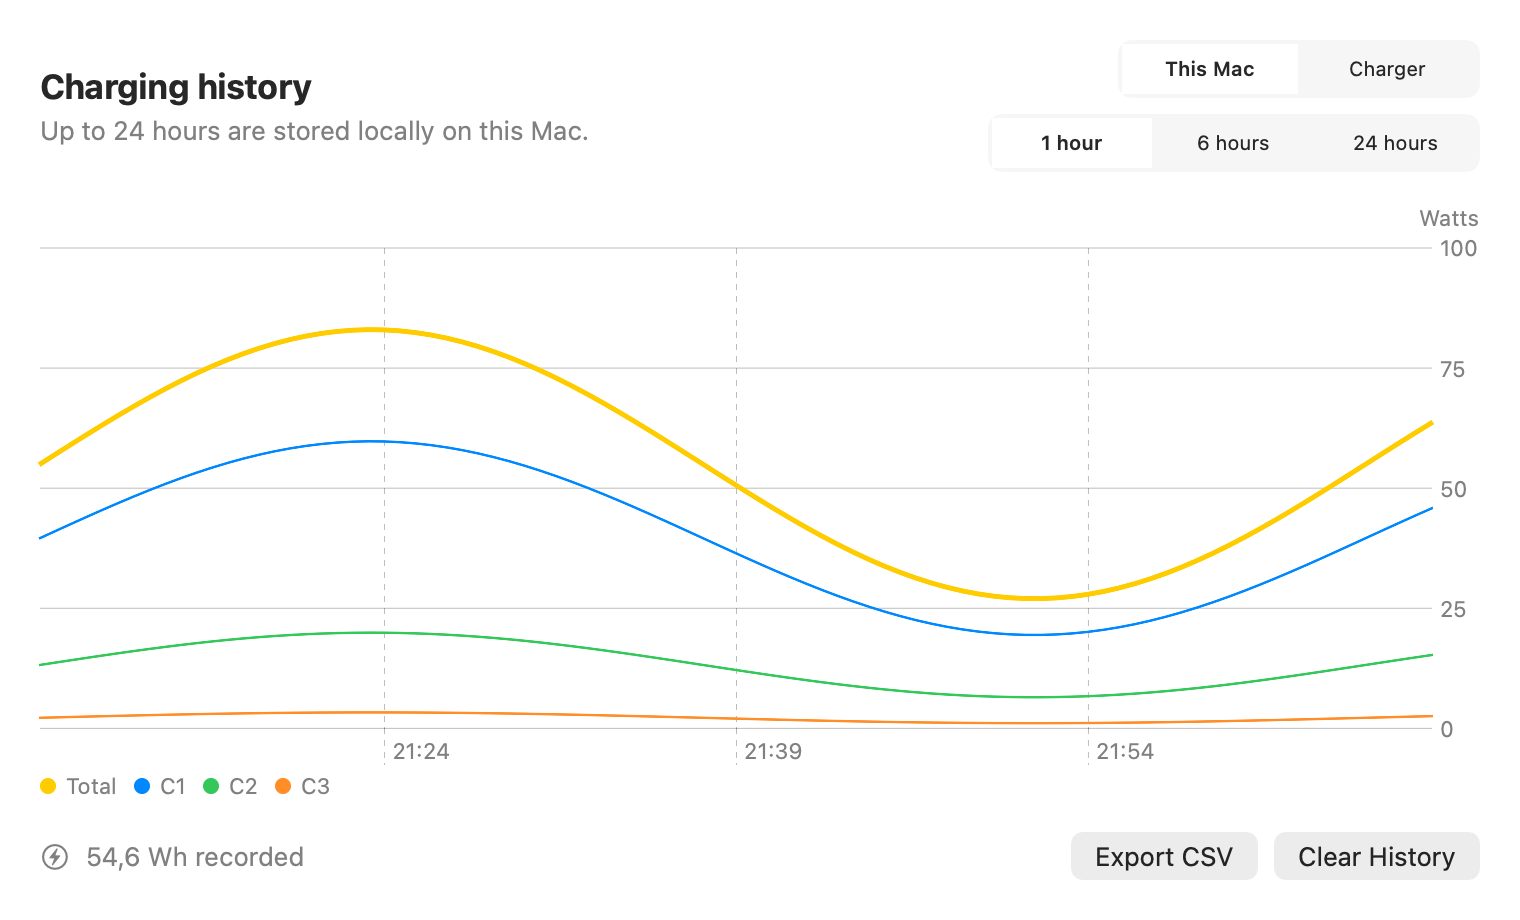
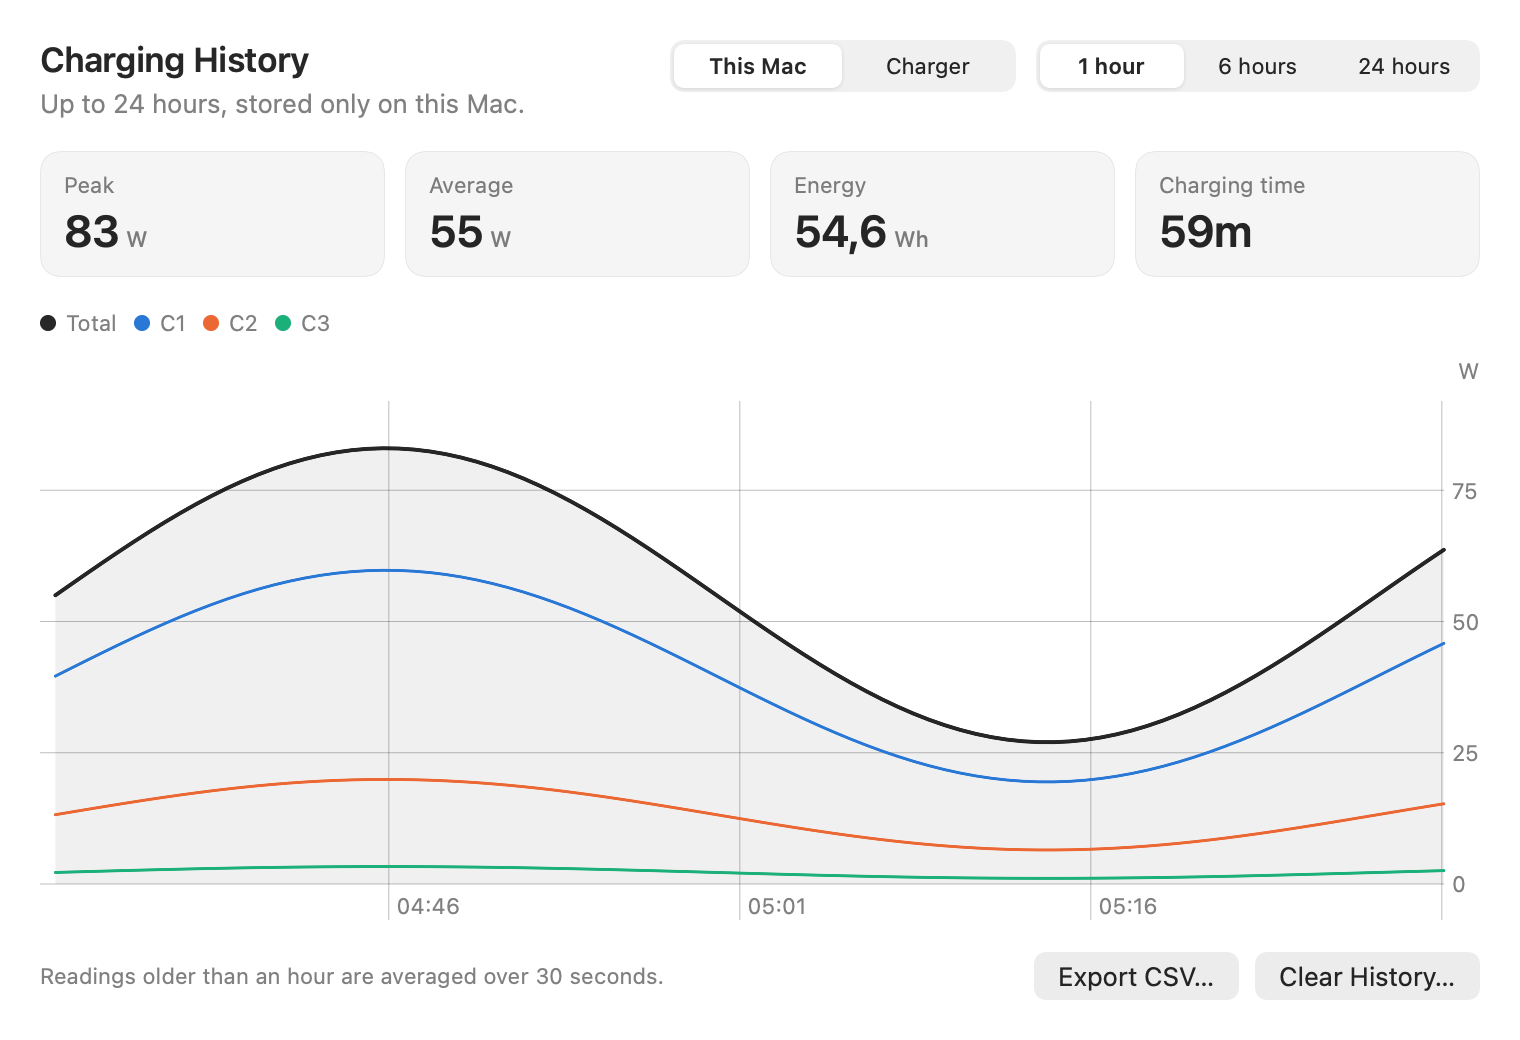
Refresh README, landing page, and screenshots for the redesign.
Screenshots come in light and dark; the README follows the reader's GitHub theme and the dark landing page uses the dark set with the app's port colors.

diff --git a/docs/index.html b/docs/index.html
@@ -4,7 +4,7 @@
   <meta charset="utf-8">
   <meta name="viewport" content="width=device-width, initial-scale=1">
   <title>Anker Power — Your Anker Prime 160W, in the Mac menu bar</title>
-  <meta name="description" content="Unofficial native macOS menu-bar monitor for the Anker Prime Charger 160W (A2687). Live local BLE power, per-port control, and charger settings — no cloud, no Anker account.">
+  <meta name="description" content="Unofficial native macOS menu-bar monitor for the Anker Prime Charger 160W (A2687). Live local BLE power, per-port control, 24-hour history, and charger settings — no cloud, no Anker account.">
   <link rel="icon" href="assets/favicon.png" type="image/png">
   <link rel="apple-touch-icon" href="assets/icon.png">
   <meta name="theme-color" content="#0b0d12">
@@ -57,6 +57,11 @@
             <span class="watt-value" data-count="28">0</span><span class="watt-unit">W</span>
           </p>
           <p class="watt-caption">Total output</p>
+          <div class="share-bar" role="img" aria-label="28 of 160 watts in use, all on C1">
+            <span class="c1" style="--share: 28"></span>
+            <span class="rest" style="--share: 132"></span>
+          </div>
+          <p class="watt-caption share-caption">of 160 W</p>
         </div>
         <div class="port-chips">
           <div class="port-chip">
@@ -79,8 +84,8 @@
           <img src="screenshots/menubar.png" alt="macOS menu bar with Anker Power showing live watts">
         </figure>
         <figure class="window window-hero window-bare">
-          <button type="button" class="shot-btn" data-lightbox="screenshots/menu.png" data-caption="Menu bar popover">
-            <img src="screenshots/menu.png" alt="Menu bar popover showing 28 W total output, C1 at 28 W, and live volts and amps">
+          <button type="button" class="shot-btn" data-lightbox="screenshots/menu-dark.png" data-caption="Menu bar popover">
+            <img src="screenshots/menu-dark.png" alt="Menu bar popover: connection status and firmware at the top, 84 W total output with a per-port bar against 160 W, and C1 to C3 with live watts, volts, and amps">
           </button>
         </figure>
       </div>
@@ -88,27 +93,27 @@
 
     <section class="proof" id="gallery" aria-label="App screenshots">
       <div class="proof-grid">
-        <button type="button" class="proof-card" data-reveal data-lightbox="screenshots/menu.png" data-caption="Live menu bar popover">
+        <button type="button" class="proof-card" data-reveal data-lightbox="screenshots/menu-dark.png" data-caption="Status, total output, and every port in one popover">
           <figure class="window window-bare">
-            <img src="screenshots/menu.png" alt="Menu bar popover">
+            <img src="screenshots/menu-dark.png" alt="Menu bar popover">
           </figure>
           <span>Live watts</span>
         </button>
-        <button type="button" class="proof-card" data-reveal data-lightbox="screenshots/settings.png" data-caption="Display, custom split, Mac preferences, and Diagnostics">
+        <button type="button" class="proof-card" data-reveal data-lightbox="screenshots/settings-dark.png" data-caption="Display, custom split, screensaver, port names, and Mac preferences">
           <figure class="window window-bare">
-            <img src="screenshots/settings.png" alt="Settings dialog">
+            <img src="screenshots/settings-dark.png" alt="Settings window">
           </figure>
           <span>Modes &amp; display</span>
         </button>
-        <button type="button" class="proof-card" data-reveal data-lightbox="screenshots/history.png" data-caption="Charging history chart">
+        <button type="button" class="proof-card" data-reveal data-lightbox="screenshots/history-dark.png" data-caption="Charging history with peak, average, energy, and charging time">
           <figure class="window window-bare">
-            <img src="screenshots/history.png" alt="Charging history window">
+            <img src="screenshots/history-dark.png" alt="Charging history window">
           </figure>
           <span>24-hour history</span>
         </button>
-        <button type="button" class="proof-card" data-reveal data-lightbox="screenshots/diagnostics.png" data-caption="Connection diagnostics">
+        <button type="button" class="proof-card" data-reveal data-lightbox="screenshots/diagnostics-dark.png" data-caption="Connection diagnostics">
           <figure class="window window-bare">
-            <img src="screenshots/diagnostics.png" alt="Connection diagnostics window">
+            <img src="screenshots/diagnostics-dark.png" alt="Connection diagnostics window">
           </figure>
           <span>Local diagnostics</span>
         </button>
@@ -117,26 +122,30 @@
 
     <section class="feature split" id="features">
       <figure class="window window-bare" data-reveal>
-        <button type="button" class="shot-btn" data-lightbox="screenshots/menu.png" data-caption="Per-port live power">
-          <img src="screenshots/menu.png" alt="Per-port power, cable rating, Apple PD Fast Charging, and connected device">
+        <button type="button" class="shot-btn" data-lightbox="screenshots/menu-dark.png" data-caption="Per-port live power">
+          <img src="screenshots/menu-dark.png" alt="Per-port power, charging protocol, connected device, and cable rating">
         </button>
       </figure>
       <div class="feature-copy" data-reveal>
         <p class="eyebrow">Live monitoring</p>
         <h2>Every port, at a glance.</h2>
-        <p>Click the bolt in the menu bar. Total watts stay in the status item while you work. The popover lists C1–C3 with live watts, volts, and amps.</p>
+        <p>Total watts stay in the menu bar while you work. Click the bolt and the popover leads with the charger&rsquo;s status, then total output against the 160 W limit — split by port — and C1–C3 with live watts, volts, and amps.</p>
         <ul class="feature-list">
+          <li>
+            <strong>Status up top</strong>
+            Connected, searching, or paused, with firmware, Pause, and Reconnect right beside it. When Bluetooth is off or access is missing, the popover says so and opens the right System Settings pane.
+          </li>
           <li>
             <strong>Cable &amp; profile</strong>
             E-Marker ratings, PD Fast Charging, and connected device names from a local USB VID/PID table.
           </li>
           <li>
-            <strong>Port nicknames</strong>
-            Label C1 as MacBook, C2 as iPhone — stored only on this Mac.
+            <strong>Port names</strong>
+            Label C1 as MacBook, C2 as iPhone — saved as you type, stored only on this Mac.
           </li>
           <li>
             <strong>Shutdown timers</strong>
-            1h / 2h / 3h presets or a custom countdown, plus output on/off with a confirm step.
+            1h / 2h / 3h presets or a custom countdown, plus output on/off with a confirmation.
           </li>
         </ul>
       </div>
@@ -167,11 +176,11 @@
             <strong>20 W</strong>
           </div>
         </div>
-        <p class="split-note">Each port 0 or 15–140 W, 160 W total. Display brightness, timeout, language, rotation, screensaver slots, and Diagnostics live in Settings.</p>
+        <p class="split-note">Each port gets 0 W or 15–140 W, up to 160 W in total. Settings previews the split before you apply it, next to display brightness, timeout, language, rotation, and four screensaver slots.</p>
       </div>
       <figure class="window window-bare" data-reveal>
-        <button type="button" class="shot-btn" data-lightbox="screenshots/settings.png" data-caption="Display settings, custom watt split, and Diagnostics">
-          <img src="screenshots/settings.png" alt="Settings with brightness, timeout, language, custom watt split, port nicknames, and Diagnostics">
+        <button type="button" class="shot-btn" data-lightbox="screenshots/settings-dark.png" data-caption="Display settings, custom watt split, screensaver, and port names">
+          <img src="screenshots/settings-dark.png" alt="Settings with brightness, timeout, language, custom watt split, screensaver slots, port names, and Mac preferences">
         </button>
       </figure>
     </section>
@@ -180,16 +189,17 @@
       <div class="history-intro" data-reveal>
         <p class="eyebrow">Energy</p>
         <h2>See the last 24 hours on this Mac.</h2>
-        <p>Rolling local samples, an optional charger-side curve, a watt-hour estimate, and CSV export. Yellow total, blue C1, green C2, orange C3.</p>
+        <p>Readings stay on this Mac for 24 hours — full resolution for the last hour, 30-second averages before that. Peak, average, energy, and charging time sit above the chart; switch to the charger&rsquo;s own curve or export CSV. White total, blue C1, orange C2, green C3.</p>
         <ul class="callouts">
           <li>1 hour · 6 hours · 24 hours</li>
+          <li>Peak · average · energy · charging time</li>
           <li>This Mac or charger curve</li>
           <li>Export CSV · stays local</li>
         </ul>
       </div>
       <figure class="window window-wide window-bare" data-reveal>
-        <button type="button" class="shot-btn" data-lightbox="screenshots/history.png" data-caption="Charging history">
-          <img src="screenshots/history.png" alt="Charging history chart with total, C1, C2, and C3 series over six hours">
+        <button type="button" class="shot-btn" data-lightbox="screenshots/history-dark.png" data-caption="Charging history">
+          <img src="screenshots/history-dark.png" alt="Charging history with peak, average, energy, and charging-time tiles above a chart of total, C1, C2, and C3 over the last hour">
         </button>
       </figure>
     </section>
@@ -199,7 +209,7 @@
         <article class="glass-card" data-reveal>
           <p class="eyebrow">Privacy</p>
           <h2>Stays on this Mac.</h2>
-          <p>All charger telemetry and history stay on-device. Up to 24 hours of samples and last-known charger identity live in Application Support. Port nicknames live in UserDefaults. The app makes no network requests.</p>
+          <p>All charger telemetry and history stay on-device. Up to 24 hours of readings and the last-known charger identity live in Application Support. Port names live in UserDefaults. The app makes no network requests.</p>
           <ul class="feature-list">
             <li><strong>No Anker account</strong> and no cloud protocol management.</li>
             <li><strong>Diagnostics Copy All</strong> omits serials, session keys, and decrypted payloads.</li>
@@ -217,8 +227,8 @@
         </article>
       </div>
       <figure class="window window-wide window-bare" data-reveal>
-        <button type="button" class="shot-btn" data-lightbox="screenshots/diagnostics.png" data-caption="Privacy-aware diagnostics log">
-          <img src="screenshots/diagnostics.png" alt="Diagnostics log of the local BLE handshake with payloads omitted">
+        <button type="button" class="shot-btn" data-lightbox="screenshots/diagnostics-dark.png" data-caption="Privacy-aware diagnostics log">
+          <img src="screenshots/diagnostics-dark.png" alt="Diagnostics log of the local BLE handshake with payloads omitted">
         </button>
       </figure>
     </section>

diff --git a/docs/styles.css b/docs/styles.css
@@ -7,10 +7,11 @@
   --muted: #9aa3b5;
   --blue: #3ea8ff;
   --blue-hot: #7cc8ff;
-  --c1: #3b82f6;
-  --c2: #22c55e;
-  --c3: #f97316;
-  --total: #f5c518;
+  /* Port colors match the app: slots 1-3 of its colorblind-validated palette, dark-surface steps. */
+  --c1: #3987e5;
+  --c2: #d95926;
+  --c3: #199e70;
+  --total: #f4f6fb;
   --radius: 18px;
   --shadow: 0 30px 80px rgba(0, 0, 0, 0.45);
   --font: ui-sans-serif, system-ui, -apple-system, "SF Pro Text", "Segoe UI", sans-serif;
@@ -296,6 +297,32 @@ h2 {
   font-size: 0.85rem;
 }
 
+.watt-readout + .watt-caption {
+  margin-bottom: 0.55rem;
+}
+
+.share-bar {
+  display: flex;
+  gap: 2px;
+  max-width: 150px;
+  height: 8px;
+  margin: 0 auto;
+  border-radius: 999px;
+  overflow: hidden;
+}
+
+.share-bar span {
+  flex: var(--share);
+}
+
+.share-bar .c1 { background: var(--c1); }
+.share-bar .rest { background: rgba(255, 255, 255, 0.12); }
+
+.watt-caption.share-caption {
+  margin-top: 0.4rem;
+  font-size: 0.78rem;
+}
+
 .port-chips {
   display: grid;
   gap: 0.45rem;
@@ -387,6 +414,14 @@ h2 {
   grid-column: 1 / -1;
   max-width: 360px;
   justify-self: end;
+}
+
+/* Dark screenshots need an edge against the page, like a real window or popover. */
+.window-hero img,
+.feature .window-bare img,
+.window-wide img {
+  border-radius: 14px;
+  box-shadow: 0 0 0 1px rgba(255, 255, 255, 0.1), var(--shadow);
 }
 
 .menubar-shot {
@@ -529,6 +564,7 @@ h2 {
 
 .split-bar {
   display: flex;
+  gap: 2px;
   height: 72px;
   border-radius: 14px;
   overflow: hidden;
@@ -545,9 +581,9 @@ h2 {
   min-width: 0;
 }
 
-.split-seg.c1 { background: #5ba3ff; }
-.split-seg.c2 { background: #4ade80; }
-.split-seg.c3 { background: #fb923c; }
+.split-seg.c1 { background: var(--c1); }
+.split-seg.c2 { background: var(--c2); }
+.split-seg.c3 { background: var(--c3); }
 
 .split-seg span {
   font-size: 0.75rem;

diff --git a/README.md b/README.md
@@ -17,32 +17,48 @@ The app lives in the menu bar (`LSUIElement`). It connects locally over Bluetoot
 </p>
 
 <p>
-  <img src="docs/screenshots/menu.png" alt="Menu bar popover" width="48%">
-  <img src="docs/screenshots/settings.png" alt="Settings dialog" width="48%">
+  <picture>
+    <source media="(prefers-color-scheme: dark)" srcset="docs/screenshots/menu-dark.png">
+    <img src="docs/screenshots/menu.png" alt="Menu bar popover: connection status, total output with a per-port bar against 160 W, and C1 to C3" width="48%">
+  </picture>
+  <picture>
+    <source media="(prefers-color-scheme: dark)" srcset="docs/screenshots/settings-dark.png">
+    <img src="docs/screenshots/settings.png" alt="Settings window" width="48%">
+  </picture>
 </p>
 
 <p>
-  <img src="docs/screenshots/history.png" alt="Charging history window" width="48%">
-  <img src="docs/screenshots/diagnostics.png" alt="Connection diagnostics window" width="48%">
+  <picture>
+    <source media="(prefers-color-scheme: dark)" srcset="docs/screenshots/history-dark.png">
+    <img src="docs/screenshots/history.png" alt="Charging history with peak, average, energy, and charging time" width="48%">
+  </picture>
+  <picture>
+    <source media="(prefers-color-scheme: dark)" srcset="docs/screenshots/diagnostics-dark.png">
+    <img src="docs/screenshots/diagnostics.png" alt="Connection diagnostics window" width="48%">
+  </picture>
 </p>
 
 <p>
-  <img src="docs/screenshots/screensaver.png" alt="Screensaver crop window" width="48%">
+  <picture>
+    <source media="(prefers-color-scheme: dark)" srcset="docs/screenshots/screensaver-dark.png">
+    <img src="docs/screenshots/screensaver.png" alt="Screensaver crop window" width="48%">
+  </picture>
 </p>
 
 ## What's included
 
 - macOS 14+ menu-bar app for **A2687 only**
 - Local BLE only — no Anker account, no cloud, no network requests
-- Menu-bar title with **total watts** while connected (bolt icon when idle)
-- Per-port watts, volts, and amps, plus firmware under the product name
-- Charging-mode picker (AI 2.0, C1 Priority, Dual Laptop, Custom) and display settings (brightness, timeout, rotation, language)
+- Menu-bar title with **total watts** while connected (bolt icon when idle), in tabular digits so it does not jitter
+- Popover that leads with the charger's **connection status** and firmware, with Pause and Reconnect beside it; when Bluetooth is off, access is missing, or the charger is out of reach, it says why and offers the fix
+- **Total output** against the 160 W limit, with a bar split by port, and the charging-mode picker (AI 2.0, C1 Priority, Dual Laptop, Custom)
+- Per-port watts, volts, and amps, with charging protocol, connected device, and cable rating (a small USB VID/PID table; unknown models stay at brand level)
+- Port output on/off (with confirmation), per-port shutdown timers, and optional port names (modern AES-GCM session)
+- Settings for display (brightness, timeout, language, rotation), a previewed **custom watt split**, port names that save as you type, and This Mac options
 - Custom screensaver image over BLE: four local slots, in-app crop, optional black edge blend (no Anker account)
-- Optional cable / charging / device strings, including a small USB VID/PID table (unknown models stay at brand level)
-- Port output on/off, per-port shutdown timers, and optional port nicknames (modern AES-GCM session)
-- Rolling 24-hour Mac history, optional charger-side curve, CSV export, and a local watt-hour estimate
+- **24-hour history** on this Mac (full resolution for the last hour, 30-second averages before that) with peak, average, energy, and charging-time tiles, an optional charger-side curve, and CSV export
 - Launch at login, optional idle-port notification, and Shortcuts for port on/off
-- About panel with app version and homepage link; Diagnostics opens from Settings
+- About panel with app version and homepage link
 - Diagnostics window with firmware / serial / MAC in the header (Copy All still omits serials, session keys, and decrypted payloads)
 - Current Anker-app-compatible P-256 ECDH / AES-GCM handshake, with AES-CBC fallback from [Anker-BLE](https://github.com/T-REX-XP/Anker-BLE)
 
@@ -78,20 +94,20 @@ Grant Bluetooth access when macOS asks.
 
 The app appears only in the menu bar. Click the bolt icon:
 
-- **Connected** — total watts in the menu-bar title; the popover lists C1–C3
-- **Charging mode** — AI 2.0, C1 Priority, Dual Laptop, or Custom
-- **Pause** — drop the BLE session and stay in the menu bar so the official Anker app can connect; **Resume** to scan again
-- **Reconnect** — drop the current session and scan again
-- **History** — last 1 / 6 / 24 hours on this Mac, charger curve, CSV export
-- **Settings** — dialog for Display, Screensaver, Custom split, and This Mac (port names, launch at login, idle notify, release Bluetooth on sleep, Diagnostics)
-- **About** — app version and homepage link
-- **Quit**
+- **Header** — charger name, connection status, and firmware. **Reconnect** (↻) drops the session and scans again; **Pause** (⏸) releases the charger so the official Anker app can connect, and **Resume** (▶) takes it back
+- **Total output** — live watts against the 160 W limit, a bar split by port, and the **charging mode** (AI 2.0, C1 Priority, Dual Laptop, or Custom)
+- **Ports** — C1–C3 with watts, volts, amps, protocol, device, and cable. The timer button sets a 1 / 2 / 3 hour or custom shutdown; the power button turns the output off (after a confirmation) or back on
+- **Charging History** — last 1 / 6 / 24 hours on this Mac or the charger's own curve, with peak, average, energy, and charging time; CSV export
+- **Settings…** (⌘,) — Charger display, Custom split, Screensaver, Port names, and This Mac (launch at login, idle alert, release Bluetooth during sleep, Connection diagnostics)
+- **About Anker Power** and **Quit Anker Power** (⌘Q)
+
+When there is no live data, the popover explains why instead of showing empty ports: searching, paused, Bluetooth off (**Open Bluetooth Settings**), Bluetooth access missing (**Open Privacy Settings**), or connection lost (**Reconnect**).
 
 Right-click the bolt icon for Pause/Resume, Reconnect, Charging History, Settings, About, and Quit. Shortcuts can turn a port on or off while the app is running.
 
-If a connection fails, open **Diagnostics…** from Settings and use **Copy All** when filing an issue.
+If a connection fails, open **Settings… › Connection diagnostics** and use **Copy All** when filing an issue.
 
-When the charger is away, the app scans in short bursts and waits longer between tries instead of scanning continuously. By default it also disconnects while the Mac sleeps, so charging history has a gap until wake. Turn off **Release Bluetooth when this Mac sleeps** in Settings to keep the session up.
+When the charger is away, the app scans in short bursts and waits longer between tries instead of scanning continuously. By default it also disconnects while the Mac sleeps, so charging history has a gap until wake. Turn off **Release Bluetooth during sleep** in Settings to keep the session up.
 
 ## Build from source
 
@@ -99,11 +115,17 @@ When the charger is away, the app scans in short bursts and waits longer between
 open AnkerPower.xcodeproj
 ```
 
-Select the `AnkerPower` scheme and **My Mac**, then Run.
+Select the `AnkerPower` scheme and **My Mac**, then Run. To work on the UI without a charger, add `--demo` to the scheme's launch arguments: the app runs on sample data and never touches Bluetooth.
 
 ```sh
 xcodebuild -project AnkerPower.xcodeproj -scheme AnkerPower \
   -destination 'platform=macOS' test
+```
+
+Refresh the README and landing-page screenshots (light and dark) with:
+
+```sh
+./scripts/export-screenshots.sh
 ```
 
 Cut a local archive (and optionally a GitHub Release) with:
@@ -115,7 +137,7 @@ Cut a local archive (and optionally a GitHub Release) with:
 
 ## Privacy
 
-All charger telemetry and history stay on the Mac. Up to 24 hours of samples, last-known charger identity, and locally uploaded screensaver JPEGs are stored in the app's Application Support container (`~/Library/Application Support/AnkerPower/`). Port nicknames live in UserDefaults. The app makes no network requests.
+All charger telemetry and history stay on the Mac. Up to 24 hours of readings (averaged to 30 seconds after the first hour), last-known charger identity, and locally uploaded screensaver JPEGs are stored in the app's Application Support container (`~/Library/Application Support/AnkerPower/`). Port names live in UserDefaults. The app makes no network requests.
 
 ## Protocol
 

diff --git a/CONTRIBUTING.md b/CONTRIBUTING.md
@@ -12,6 +12,8 @@ open AnkerPower.xcodeproj
 
 Select the `AnkerPower` scheme and **My Mac**, then Run. Grant Bluetooth permission when asked.
 
+For UI work without a charger, add `--demo` to the scheme's launch arguments. The app then runs on sample data and never touches Bluetooth, so it cannot interfere with a copy that is connected.
+
 ```sh
 xcodebuild -project AnkerPower.xcodeproj -scheme AnkerPower \
   -destination 'platform=macOS' test
@@ -25,7 +27,7 @@ Disconnect the official Anker app before testing live BLE. Only one client can n
 - Add or update tests in `AnkerPowerTests` when you change framing, crypto, or TLV decoding.
 - Do not include session keys, decrypted packet bodies, or personal charger serials in issues, logs, or screenshots.
 - The A2687 protocol is unofficial and firmware-dependent. Call out the firmware version you tested if you have it.
-- After UI changes, refresh README images with `./scripts/export-screenshots.sh`.
+- After UI changes, refresh the README and landing-page images with `./scripts/export-screenshots.sh`. It writes light and dark variants (`menu.png`, `menu-dark.png`, …). To review every popover state (searching, paused, Bluetooth off, fault) in both appearances, export elsewhere with `./scripts/export-screenshots.sh /tmp/anker-shots --all-states`.
 
 ## Releases
 
